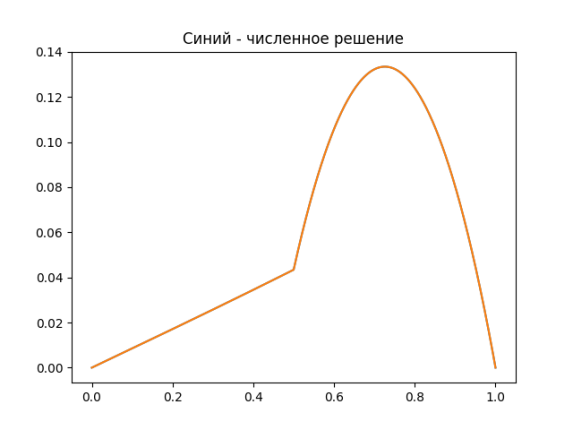
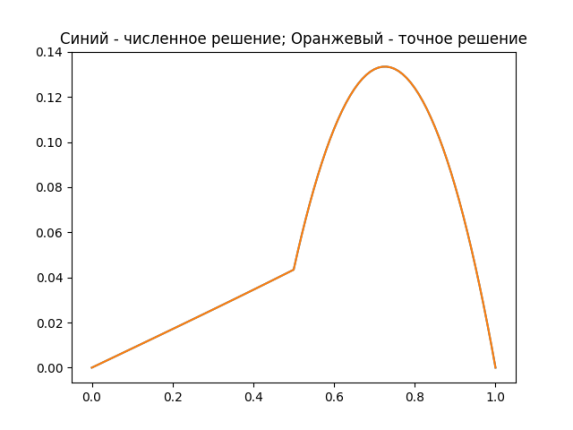
mult

Changed region(s): [[0.089, 0.0605, 0.9197, 0.1209]]

diff --git a/ui.py b/ui.py
@@ -17,13 +17,13 @@ class ExampleApp(QtWidgets.QMainWindow, design.Ui_MainWindow):
         self.startCalcTest.clicked.connect(self.drawTest)
         self.drawAccuracyButton.clicked.connect(self.drawAccuracy)
 
-        self.tableMain.setColumnCount(5)  # Set three columns
+        self.tableMain.setColumnCount(5)
         self.tableMain.setRowCount(1)
         self.tableMain.setHorizontalHeaderLabels(["Номер узла", "X", "V", "V*", "|V-V*|"])
         self.tableMain.horizontalHeader().setSectionResizeMode(QtWidgets.QHeaderView.ResizeToContents)
         self.tableMain.verticalHeader().hide()
 
-        self.tableTest.setColumnCount(5)  # Set three columns
+        self.tableTest.setColumnCount(5)
         self.tableTest.setRowCount(1)
         self.tableTest.setHorizontalHeaderLabels(["Номер узла", "X", "V", "U", "|U-V|"])
         self.tableTest.horizontalHeader().setSectionResizeMode(QtWidgets.QHeaderView.ResizeToContents)
@@ -127,7 +127,7 @@ class ExampleApp(QtWidgets.QMainWindow, design.Ui_MainWindow):
         x, y, y2 = method.calculate("test", N)
         diff = [abs(y[i] - y2[i]) for i in range(len(y))]
 
-        plt.title("Синий - численное решение")
+        plt.title("Синий - численное решение; Оранжевый - точное решение")
         plt.plot(x, y)
         plt.plot(x, y2)
         plt.savefig(graph1Name)
@@ -183,7 +183,7 @@ class ExampleApp(QtWidgets.QMainWindow, design.Ui_MainWindow):
             diff = [abs(y[j] - y2[j]) for j in range(len(y))]
             maxdiff = max(diff)
             N.append(i)
-            acc.append(maxdiff)
+            acc.append(maxdiff * mult)
 
 
         plt.figure(figsize=[16,10])
